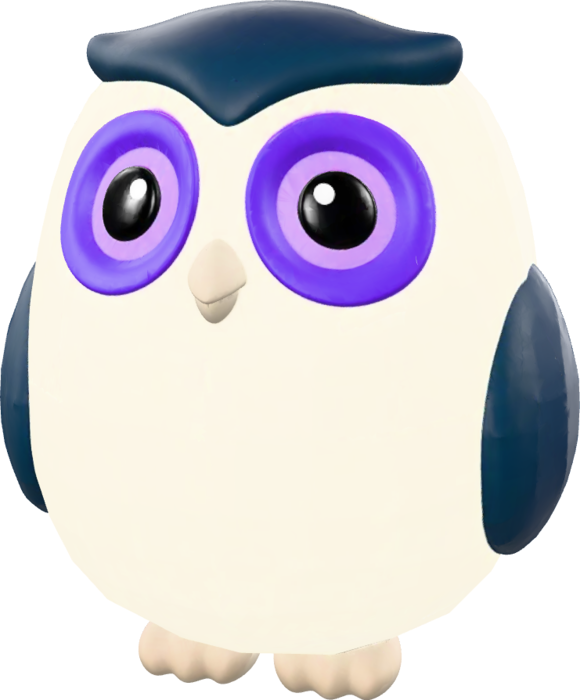
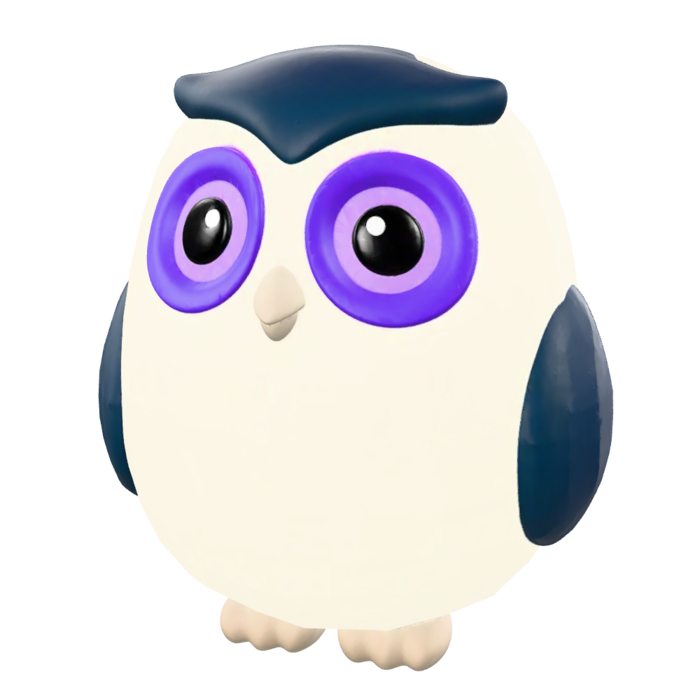
fix(brand): make the poster and the model the same picture
The handover jumped because the two frames were never the same frame. The
posters had been rendered at a different camera radius and then trimmed to the
mesh's bounding box, so object-contain stretched them edge to edge while the
live model sat inside its own margin. Re-rendered through the exact camera the
viewer uses, on the same square canvas, untrimmed. The swap is invisible now.

The cost is transparent padding, which the standalone uses have to pay for: the
officer's mesh only fills 81% of the frame vertically and 48% horizontally, so
sizing those by width alone made the owl smaller than before rather than larger.
Both call sites are sized against the content box now, not the file.

diff --git a/src/components/ErrorBoundary.tsx b/src/components/ErrorBoundary.tsx
@@ -27,7 +27,7 @@ export default class ErrorBoundary extends Component<Props, State> {
       <div className="grid min-h-screen place-items-center bg-background px-6 text-foreground">
         <div className="w-full max-w-md rounded-2xl border border-border bg-card p-8 text-center shadow-sm">
           {/* Same owl as the 404, so a failure still reads as part of the product. */}
-          <OwlMascot variant="officer" className="mx-auto mb-6 w-44" width={176} />
+          <OwlMascot variant="officer" className="mx-auto -mb-2 -mt-6 w-[360px] max-w-full" width={360} />
           <h1 className="text-lg font-bold">Something went wrong</h1>
           <p className="mt-2 text-sm text-foreground/60">
             A panel hit an unexpected error. Your data is safe, reloading usually fixes it.

diff --git a/src/routes/app/AgentId.tsx b/src/routes/app/AgentId.tsx
@@ -681,8 +681,8 @@ function RegisterForm({ onClose, onCreated }: { onClose: () => void; onCreated?:
             never overlaps the text: it sits in the card's empty top-right corner. */}
         <OwlMascot
           variant="geometric"
-          width={148}
-          className="pointer-events-none absolute -right-3 -top-3 hidden w-[148px] select-none opacity-90 sm:block"
+          width={264}
+          className="pointer-events-none absolute -right-14 -top-16 hidden w-[264px] select-none opacity-90 sm:block"
         />
         <div className="flex items-center gap-2 font-bold text-emerald-700 dark:text-emerald-300">
           <CheckCircle2 size={18} /> {name} is registered.

diff --git a/src/components/OwlMascot.tsx b/src/components/OwlMascot.tsx
@@ -27,6 +27,11 @@ const ALT: Record<OwlVariant, string> = {
 /**
  * Static cutout. This is the default: an inline success or error state should not pay for
  * a 3D runtime, and a PNG cannot fail to load a decoder.
+ *
+ * The PNGs are rendered from the GLBs through the same camera the 3D viewer uses and are
+ * deliberately NOT trimmed to the mesh, so the poster and the model frame identically and
+ * the handover is invisible. The cost is transparent padding, which means a standalone use
+ * needs to be sized roughly a third larger than the owl you want to see.
  */
 export function OwlMascot({
   variant = 'soft',
